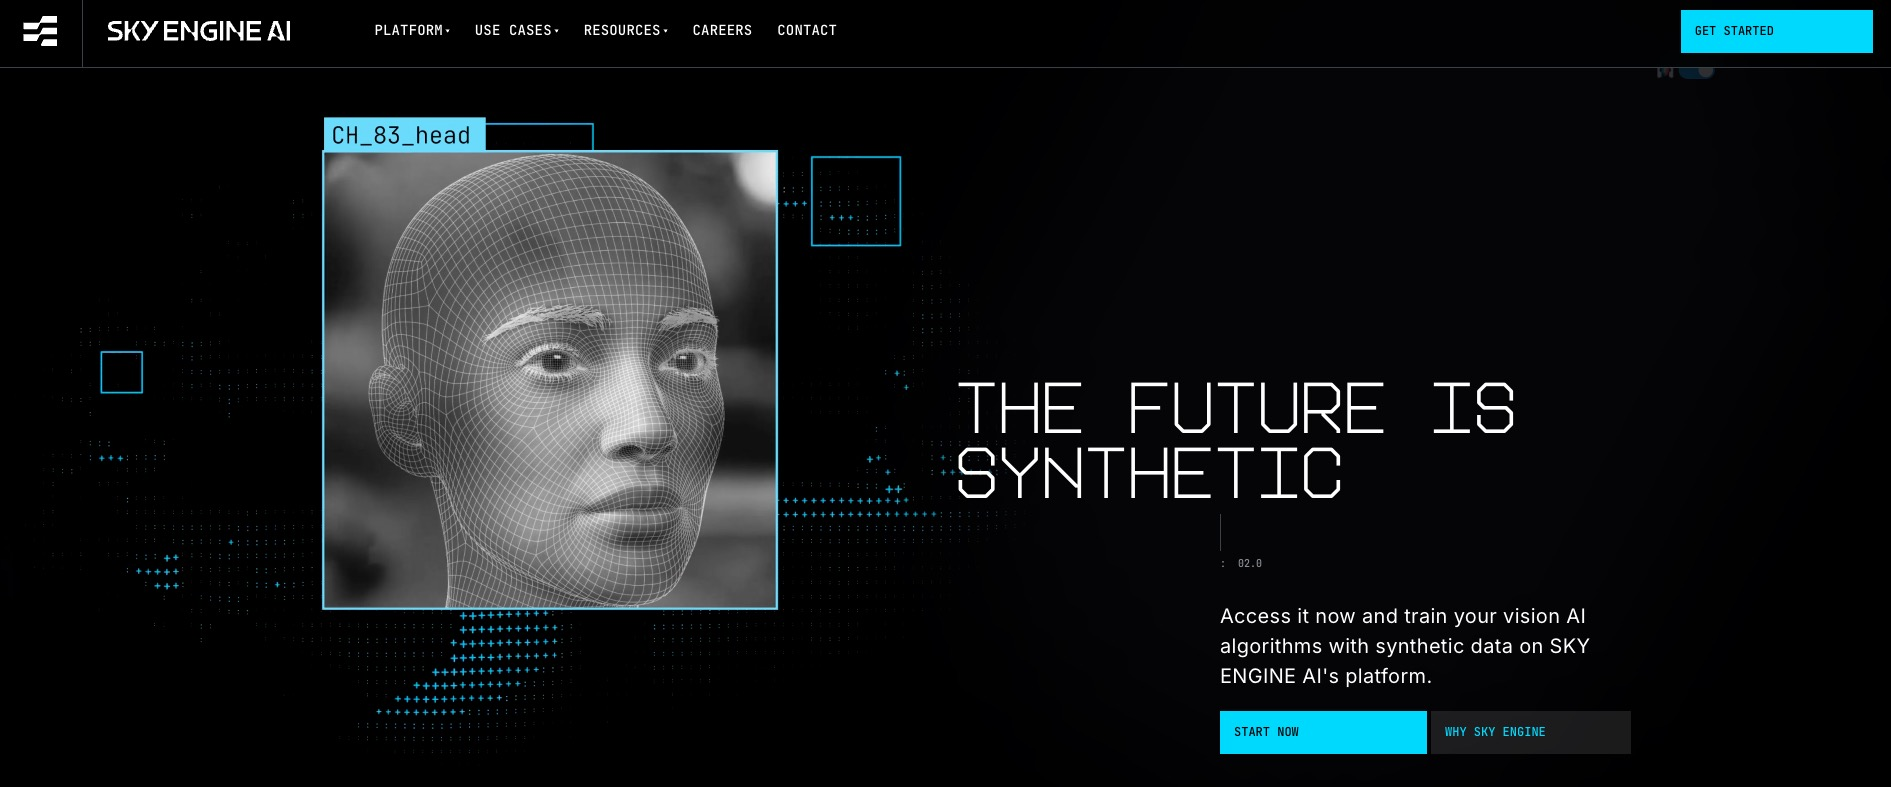
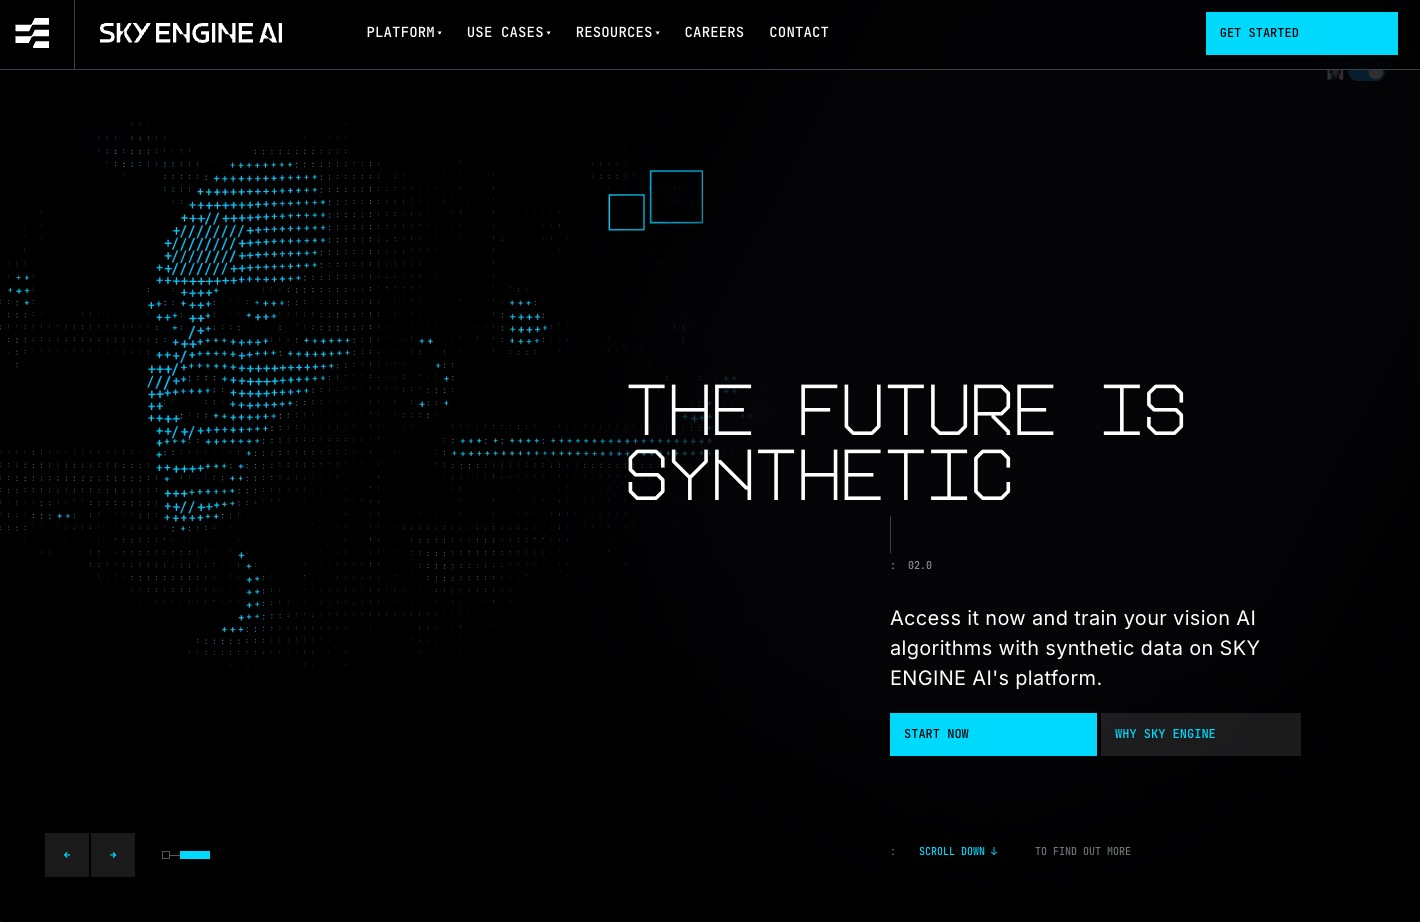
feat: adjusted screen size for background, removed unused images, improved preview link

diff --git a/src/components/ui/link-preview.tsx b/src/components/ui/link-preview.tsx
@@ -116,51 +116,53 @@ export const LinkPreview = ({
           </a>
         </HoverCardPrimitive.Trigger>
 
-        <HoverCardPrimitive.Content
-          className="origin-(--radix-hover-card-content-transform-origin)"
-          side="top"
-          align="center"
-          sideOffset={10}
-        >
-          <AnimatePresence>
-            {isOpen && (
-              <motion.div
-                initial={{ opacity: 0, y: 20, scale: 0.6 }}
-                animate={{
-                  opacity: 1,
-                  y: 0,
-                  scale: 1,
-                  transition: {
-                    type: "spring",
-                    stiffness: 260,
-                    damping: 20,
-                  },
-                }}
-                exit={{ opacity: 0, y: 20, scale: 0.6 }}
-                className="shadow-xl rounded-xl"
-                style={{
-                  x: translateX,
-                }}
-              >
-                <a
-                  href={url}
-                  target={target}
-                  className="block p-1 bg-white border-2 border-transparent shadow rounded-xl hover:border-neutral-200 dark:hover:border-neutral-800"
-                  style={{ fontSize: 0 }}
+        <HoverCardPrimitive.Portal forceMount>
+          <HoverCardPrimitive.Content
+            className="origin-(--radix-hover-card-content-transform-origin) bg-transparent border-none shadow-none z-10"
+            side="top"
+            align="center"
+            sideOffset={10}
+          >
+            <AnimatePresence>
+              {isOpen && (
+                <motion.div
+                  initial={{ opacity: 0, y: 20, scale: 0.6 }}
+                  animate={{
+                    opacity: 1,
+                    y: 0,
+                    scale: 1,
+                    transition: {
+                      type: "spring",
+                      stiffness: 260,
+                      damping: 20,
+                    },
+                  }}
+                  exit={{ opacity: 0, y: 20, scale: 0.6 }}
+                  className="shadow-xl rounded-xl"
+                  style={{
+                    x: translateX,
+                  }}
                 >
-                  <Image
-                    src={isStatic ? imageSrc : src}
-                    width={width}
-                    height={height}
-                    className="rounded-lg"
-                    alt="preview image"
-                    quality={quality}
-                  />
-                </a>
-              </motion.div>
-            )}
-          </AnimatePresence>
-        </HoverCardPrimitive.Content>
+                  <a
+                    href={url}
+                    target={target}
+                    className="block p-1 bg-white border-2 border-transparent shadow rounded-xl hover:border-neutral-200 dark:hover:border-neutral-800"
+                    style={{ fontSize: 0 }}
+                  >
+                    <Image
+                      src={isStatic ? imageSrc : src}
+                      width={width}
+                      height={height}
+                      className="rounded-lg"
+                      alt="preview image"
+                      quality={quality}
+                    />
+                  </a>
+                </motion.div>
+              )}
+            </AnimatePresence>
+          </HoverCardPrimitive.Content>
+        </HoverCardPrimitive.Portal>
       </HoverCardPrimitive.Root>
     </>
   );

diff --git a/src/components/ui/infinite-moving-cards.tsx b/src/components/ui/infinite-moving-cards.tsx
@@ -1,7 +1,7 @@
 "use client";
 
 import { cn } from "@/lib/utils";
-import React, { useCallback, useEffect, useState, ReactNode } from "react";
+import React, { useEffect, useMemo, useState, ReactNode } from "react";
 
 export const InfiniteMovingCards = ({
   children,
@@ -19,58 +19,38 @@ export const InfiniteMovingCards = ({
   listClassName?: string;
 }) => {
   const containerRef = React.useRef<HTMLDivElement>(null);
-  const scrollerRef = React.useRef<HTMLUListElement>(null);
 
   const [start, setStart] = useState(false);
 
-  const getDirection = useCallback(() => {
-    if (containerRef.current) {
-      if (direction === "left") {
-        containerRef.current.style.setProperty(
-          "--animation-direction",
-          "forwards"
-        );
-      } else {
-        containerRef.current.style.setProperty(
-          "--animation-direction",
-          "reverse"
-        );
+  const duplicatedChildren = useMemo(() => {
+    const items = React.Children.toArray(children);
+    const clones = items.map((child, index) => {
+      if (!React.isValidElement(child)) {
+        return child;
       }
-    }
-  }, [direction]);
-
-  const getSpeed = useCallback(() => {
-    if (containerRef.current) {
-      if (speed === "fast") {
-        containerRef.current.style.setProperty("--animation-duration", "20s");
-      } else if (speed === "normal") {
-        containerRef.current.style.setProperty("--animation-duration", "40s");
-      } else {
-        containerRef.current.style.setProperty("--animation-duration", "80s");
-      }
-    }
-  }, [speed]);
-
-  const addAnimation = useCallback(() => {
-    if (containerRef.current && scrollerRef.current) {
-      const scrollerContent = Array.from(scrollerRef.current.children);
-
-      scrollerContent.forEach((item) => {
-        const duplicatedItem = item.cloneNode(true);
-        if (scrollerRef.current) {
-          scrollerRef.current.appendChild(duplicatedItem);
-        }
+      return React.cloneElement(child, {
+        key: `duplicate-${index}`,
       });
-
-      getDirection();
-      getSpeed();
-      setStart(true);
-    }
-  }, [getDirection, getSpeed]);
+    });
+    return [...items, ...clones];
+  }, [children]);
 
   useEffect(() => {
-    addAnimation();
-  }, [addAnimation]);
+    const node = containerRef.current;
+    if (!node) {
+      return;
+    }
+    const directionValue = direction === "left" ? "forwards" : "reverse";
+    const speedValue =
+      speed === "fast" ? "20s" : speed === "slow" ? "80s" : "40s";
+    node.style.setProperty("--animation-direction", directionValue);
+    node.style.setProperty("--animation-duration", speedValue);
+    setStart(false);
+    const raf = requestAnimationFrame(() => {
+      setStart(true);
+    });
+    return () => cancelAnimationFrame(raf);
+  }, [direction, speed, duplicatedChildren.length]);
 
   return (
     <div
@@ -81,7 +61,6 @@ export const InfiniteMovingCards = ({
       )}
     >
       <ul
-        ref={scrollerRef}
         className={cn(
           "flex w-max min-w-full shrink-0 flex-nowrap",
           start && "animate-scroll",
@@ -89,7 +68,7 @@ export const InfiniteMovingCards = ({
           listClassName
         )}
       >
-        {children}
+        {duplicatedChildren}
       </ul>
     </div>
   );

diff --git a/src/components/companies.tsx b/src/components/companies.tsx
@@ -7,11 +7,11 @@ export const Companies = () => {
   return (
     <div className="relative w-full bg-transparent shadow-lg z-40 shrink-0">
       <div className="pb-2 sm:pb-3 px-2 sm:px-4">
-        <h2 className="text-sm sm:text-base md:text-xl text-foreground mb-1 sm:mb-2 md:mb-3 text-center">
+        <h2 className="text-sm sm:text-base md:text-xl text-foreground mb-1 sm:mb-1 md:mb-2 text-center">
           Trusted by Innovative Startups Worldwide
         </h2>
         <div className="max-w-7xl mx-auto">
-          <InfiniteMovingCards listClassName="gap-4 md:gap-6 lg:gap-8">
+          <InfiniteMovingCards listClassName="gap-4 md:gap-6 lg:gap-8 py-1">
             {COMPANIES.map((company) => (
               <li key={company.name} className="shrink-0">
                 <LinkPreview

diff --git a/src/app/page.tsx b/src/app/page.tsx
@@ -13,7 +13,7 @@ export default function Home() {
   const [activeCard, setActiveCard] = useState<Person | null>(null);
 
   return (
-    <div className="relative min-h-screen w-full overflow-x-hidden lg:h-screen">
+    <div className="relative min-h-screen w-full overflow-x-hidden">
       <div className="absolute inset z-10 h-full w-full bg-black/70" />
       <ThreeDMarquee
         className="pointer-events-none absolute inset-0 h-full w-full"
@@ -36,7 +36,7 @@ export default function Home() {
           </p>
         </StickyBanner>
 
-        <div className="flex flex-1 flex-col overflow-y-auto">
+        <div className="flex flex-1 flex-col gap-4">
           <AboutMe onClick={setActiveCard} />
 
           <Hero activeCard={activeCard} setActiveCard={setActiveCard} />
